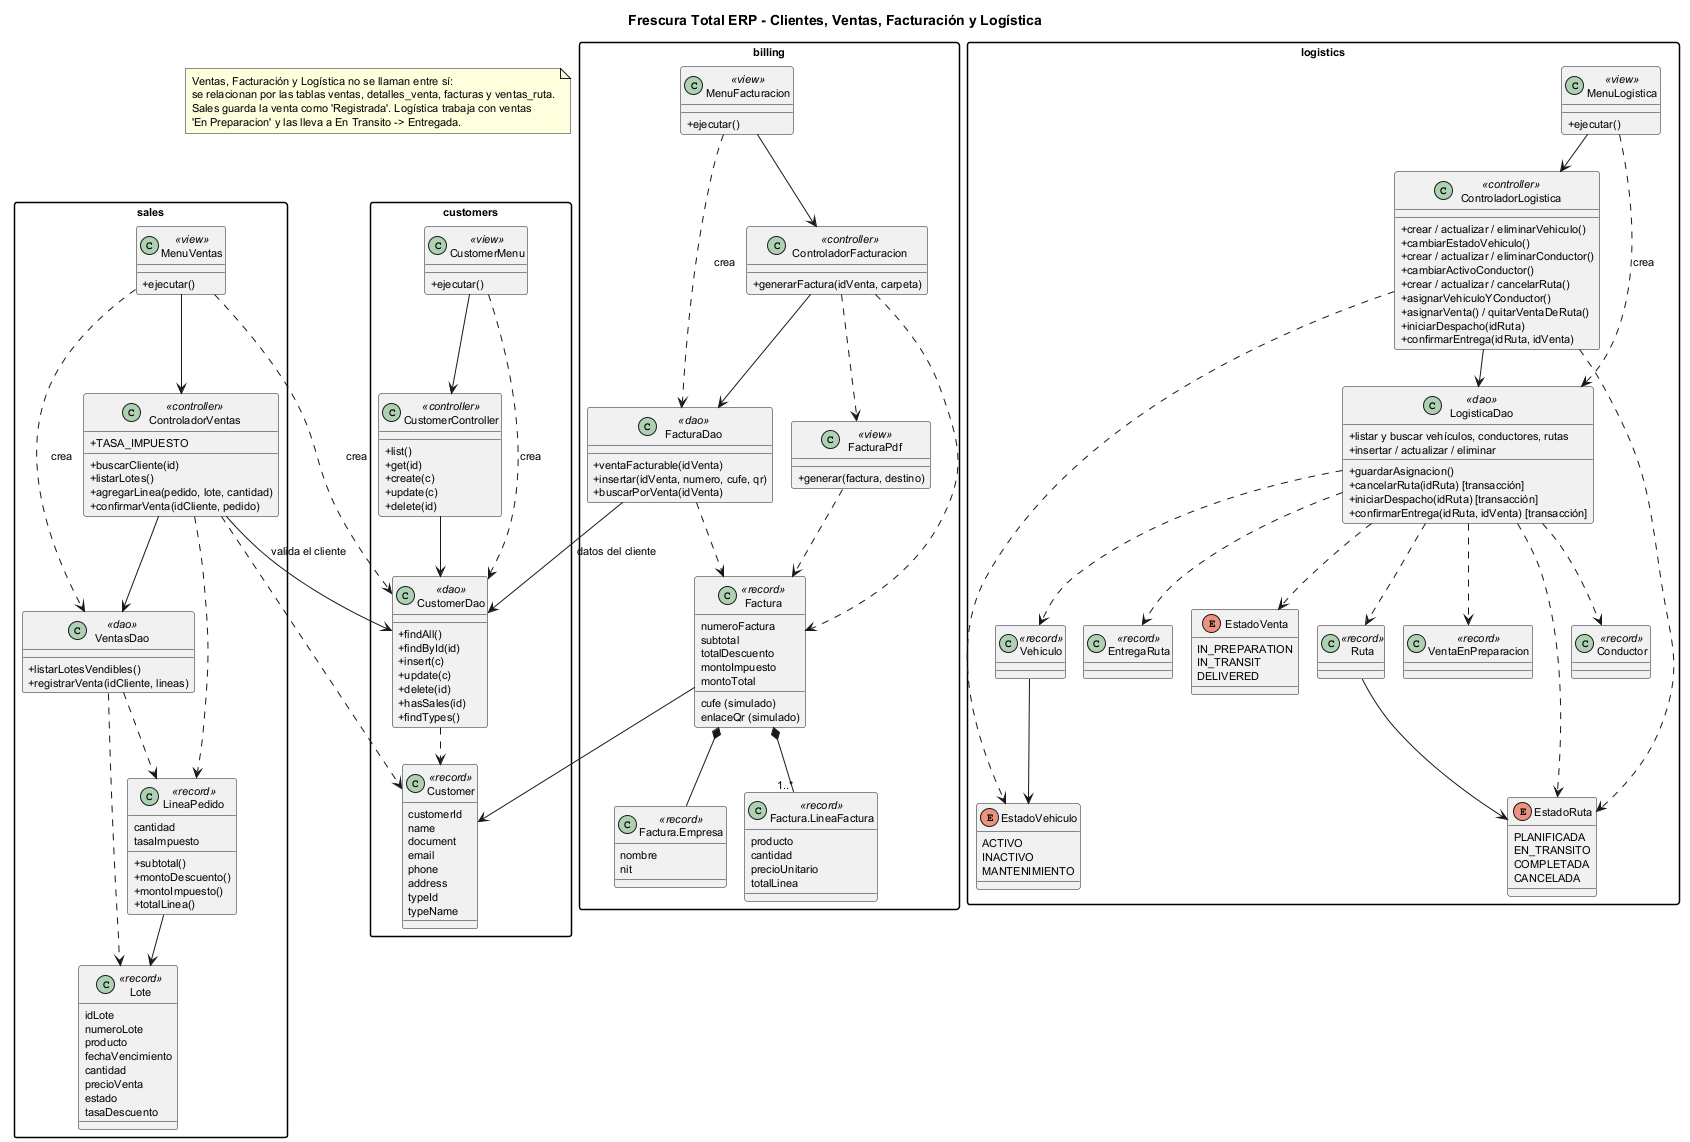
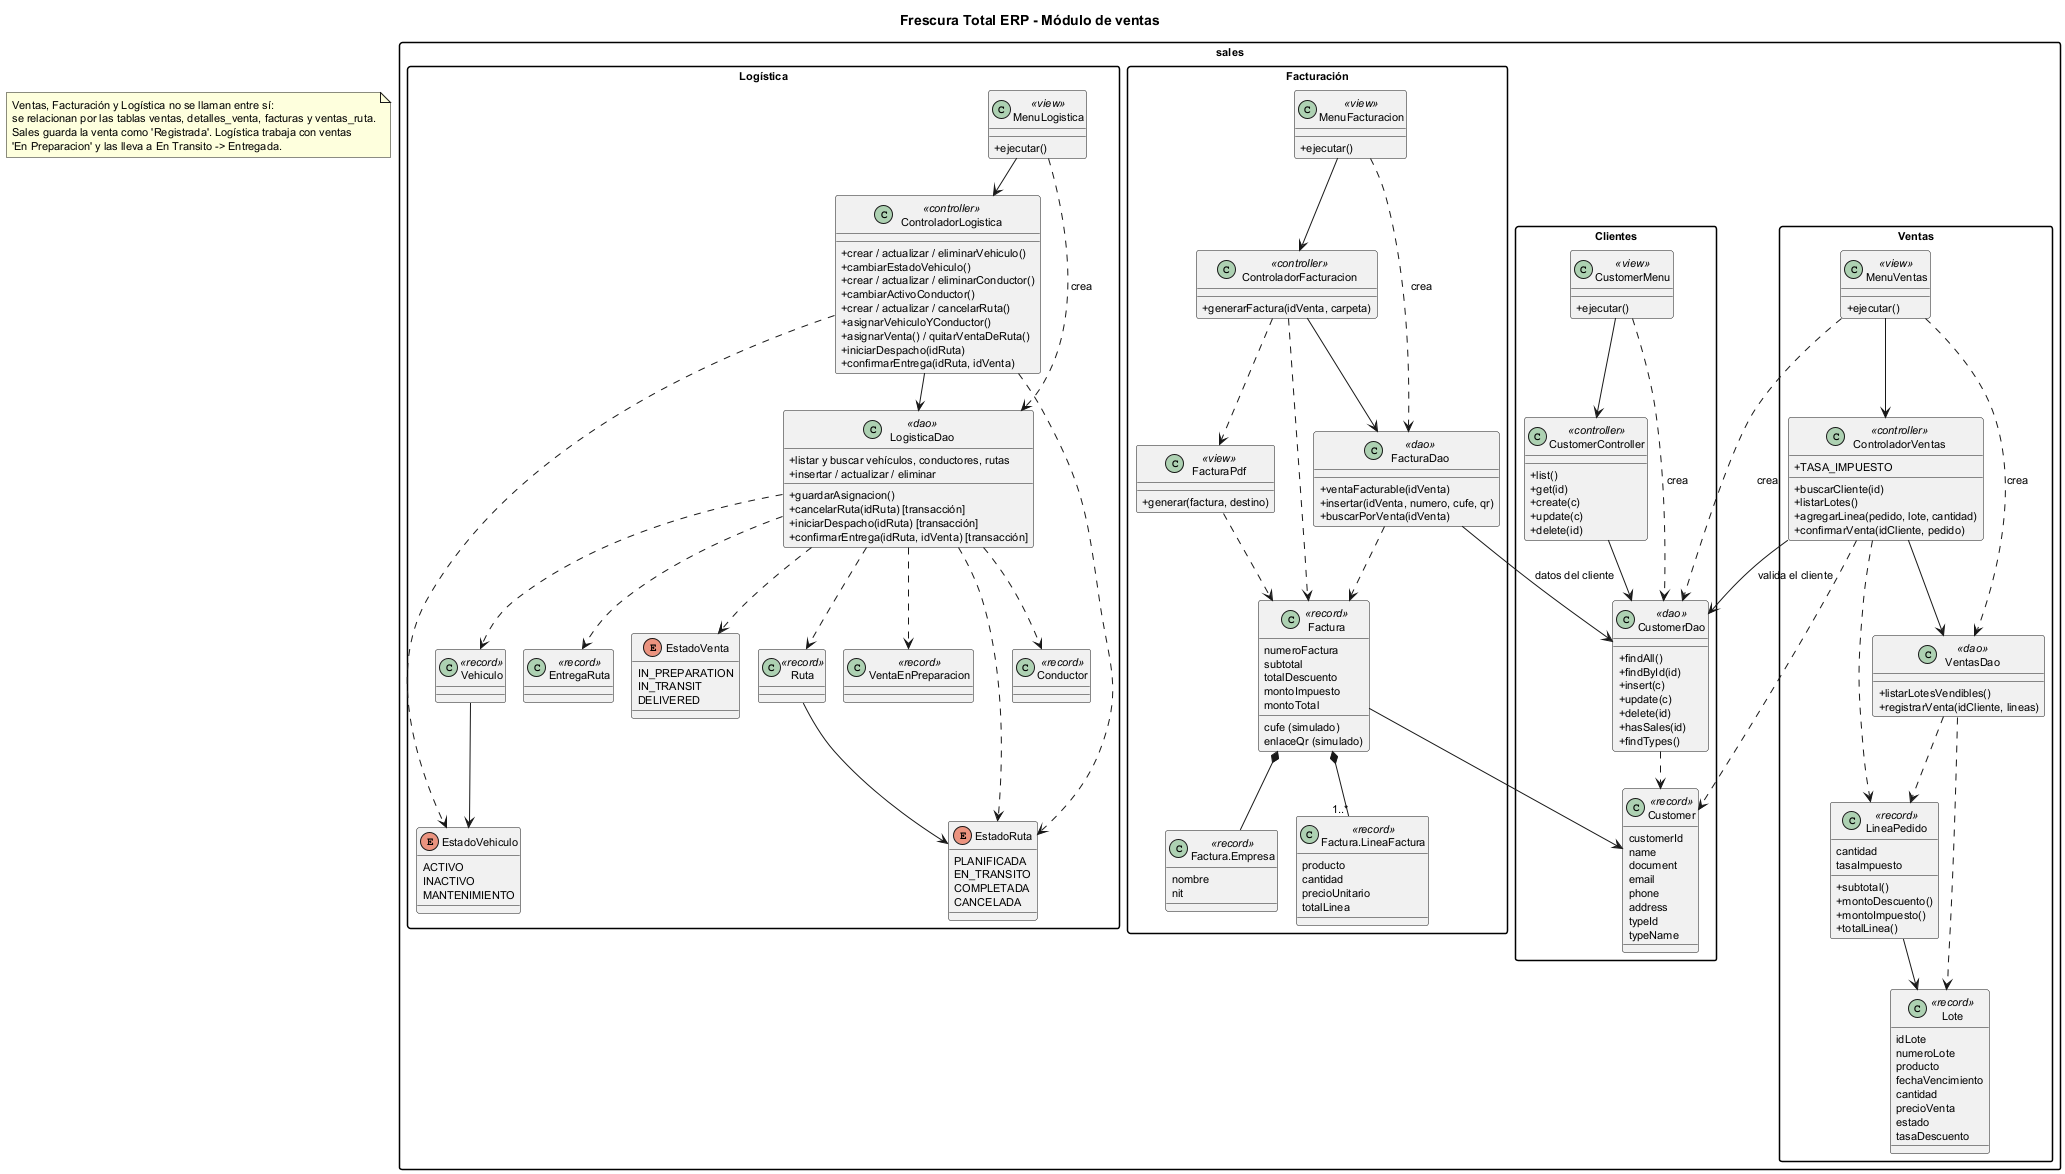
refactor: consolidar módulos bajo ventas

diff --git a/src/main/java/com/frescuratotal/erp/sales/controller/ControladorLogistica.java b/src/main/java/com/frescuratotal/erp/sales/controller/ControladorLogistica.java
@@ -1,13 +1,13 @@
-package com.frescuratotal.erp.logistics.controller;
+package com.frescuratotal.erp.sales.controller;
 
-import com.frescuratotal.erp.logistics.dao.LogisticaDao;
-import com.frescuratotal.erp.logistics.model.Conductor;
-import com.frescuratotal.erp.logistics.model.EntregaRuta;
-import com.frescuratotal.erp.logistics.model.EstadoRuta;
-import com.frescuratotal.erp.logistics.model.EstadoVehiculo;
-import com.frescuratotal.erp.logistics.model.Ruta;
-import com.frescuratotal.erp.logistics.model.Vehiculo;
-import com.frescuratotal.erp.logistics.model.VentaEnPreparacion;
+import com.frescuratotal.erp.sales.dao.LogisticaDao;
+import com.frescuratotal.erp.sales.model.Conductor;
+import com.frescuratotal.erp.sales.model.EntregaRuta;
+import com.frescuratotal.erp.sales.model.EstadoRuta;
+import com.frescuratotal.erp.sales.model.EstadoVehiculo;
+import com.frescuratotal.erp.sales.model.Ruta;
+import com.frescuratotal.erp.sales.model.Vehiculo;
+import com.frescuratotal.erp.sales.model.VentaEnPreparacion;
 import java.math.BigDecimal;
 import java.sql.SQLException;
 import java.sql.Timestamp;

diff --git a/src/main/java/com/frescuratotal/erp/sales/dao/LogisticaDao.java b/src/main/java/com/frescuratotal/erp/sales/dao/LogisticaDao.java
@@ -1,13 +1,13 @@
-package com.frescuratotal.erp.logistics.dao;
+package com.frescuratotal.erp.sales.dao;
 
-import com.frescuratotal.erp.logistics.model.Conductor;
-import com.frescuratotal.erp.logistics.model.EntregaRuta;
-import com.frescuratotal.erp.logistics.model.EstadoRuta;
-import com.frescuratotal.erp.logistics.model.EstadoVehiculo;
-import com.frescuratotal.erp.logistics.model.EstadoVenta;
-import com.frescuratotal.erp.logistics.model.Ruta;
-import com.frescuratotal.erp.logistics.model.Vehiculo;
-import com.frescuratotal.erp.logistics.model.VentaEnPreparacion;
+import com.frescuratotal.erp.sales.model.Conductor;
+import com.frescuratotal.erp.sales.model.EntregaRuta;
+import com.frescuratotal.erp.sales.model.EstadoRuta;
+import com.frescuratotal.erp.sales.model.EstadoVehiculo;
+import com.frescuratotal.erp.sales.model.EstadoVenta;
+import com.frescuratotal.erp.sales.model.Ruta;
+import com.frescuratotal.erp.sales.model.Vehiculo;
+import com.frescuratotal.erp.sales.model.VentaEnPreparacion;
 import java.math.BigDecimal;
 import java.sql.Connection;
 import java.sql.PreparedStatement;

diff --git a/src/main/java/com/frescuratotal/erp/sales/view/MenuLogistica.java b/src/main/java/com/frescuratotal/erp/sales/view/MenuLogistica.java
@@ -1,11 +1,11 @@
-package com.frescuratotal.erp.logistics.view;
+package com.frescuratotal.erp.sales.view;
 
-import com.frescuratotal.erp.logistics.controller.ControladorLogistica;
-import com.frescuratotal.erp.logistics.dao.LogisticaDao;
-import com.frescuratotal.erp.logistics.model.Conductor;
-import com.frescuratotal.erp.logistics.model.EstadoVehiculo;
-import com.frescuratotal.erp.logistics.model.Ruta;
-import com.frescuratotal.erp.logistics.model.Vehiculo;
+import com.frescuratotal.erp.sales.controller.ControladorLogistica;
+import com.frescuratotal.erp.sales.dao.LogisticaDao;
+import com.frescuratotal.erp.sales.model.Conductor;
+import com.frescuratotal.erp.sales.model.EstadoVehiculo;
+import com.frescuratotal.erp.sales.model.Ruta;
+import com.frescuratotal.erp.sales.model.Vehiculo;
 import java.math.BigDecimal;
 import java.sql.Connection;
 import java.sql.SQLException;

diff --git a/src/main/java/com/frescuratotal/erp/sales/dao/FacturaDao.java b/src/main/java/com/frescuratotal/erp/sales/dao/FacturaDao.java
@@ -1,9 +1,9 @@
-package com.frescuratotal.erp.billing.dao;
+package com.frescuratotal.erp.sales.dao;
 
-import com.frescuratotal.erp.billing.model.Factura;
-import com.frescuratotal.erp.billing.model.Factura.Empresa;
-import com.frescuratotal.erp.billing.model.Factura.LineaFactura;
-import com.frescuratotal.erp.customers.dao.CustomerDao;
+import com.frescuratotal.erp.sales.model.Factura;
+import com.frescuratotal.erp.sales.model.Factura.Empresa;
+import com.frescuratotal.erp.sales.model.Factura.LineaFactura;
+import com.frescuratotal.erp.sales.dao.CustomerDao;
 import java.sql.Connection;
 import java.sql.PreparedStatement;
 import java.sql.ResultSet;

diff --git a/src/main/java/com/frescuratotal/erp/sales/view/CustomerMenu.java b/src/main/java/com/frescuratotal/erp/sales/view/CustomerMenu.java
@@ -1,8 +1,8 @@
-package com.frescuratotal.erp.customers.view;
+package com.frescuratotal.erp.sales.view;
 
-import com.frescuratotal.erp.customers.controller.CustomerController;
-import com.frescuratotal.erp.customers.dao.CustomerDao;
-import com.frescuratotal.erp.customers.model.Customer;
+import com.frescuratotal.erp.sales.controller.CustomerController;
+import com.frescuratotal.erp.sales.dao.CustomerDao;
+import com.frescuratotal.erp.sales.model.Customer;
 import java.sql.Connection;
 import java.sql.SQLException;
 import java.util.Map;

diff --git a/src/main/java/com/frescuratotal/erp/sales/controller/ControladorFacturacion.java b/src/main/java/com/frescuratotal/erp/sales/controller/ControladorFacturacion.java
@@ -1,8 +1,8 @@
-package com.frescuratotal.erp.billing.controller;
+package com.frescuratotal.erp.sales.controller;
 
-import com.frescuratotal.erp.billing.dao.FacturaDao;
-import com.frescuratotal.erp.billing.model.Factura;
-import com.frescuratotal.erp.billing.view.FacturaPdf;
+import com.frescuratotal.erp.sales.dao.FacturaDao;
+import com.frescuratotal.erp.sales.model.Factura;
+import com.frescuratotal.erp.sales.view.FacturaPdf;
 import java.io.IOException;
 import java.nio.file.Files;
 import java.nio.file.Path;

diff --git a/src/main/java/com/frescuratotal/erp/sales/view/FacturaPdf.java b/src/main/java/com/frescuratotal/erp/sales/view/FacturaPdf.java
@@ -1,7 +1,7 @@
-package com.frescuratotal.erp.billing.view;
+package com.frescuratotal.erp.sales.view;
 
-import com.frescuratotal.erp.billing.model.Factura;
-import com.frescuratotal.erp.billing.model.Factura.LineaFactura;
+import com.frescuratotal.erp.sales.model.Factura;
+import com.frescuratotal.erp.sales.model.Factura.LineaFactura;
 import com.google.zxing.BarcodeFormat;
 import com.google.zxing.WriterException;
 import com.google.zxing.common.BitMatrix;

diff --git a/src/main/java/com/frescuratotal/erp/sales/view/MenuVentas.java b/src/main/java/com/frescuratotal/erp/sales/view/MenuVentas.java
@@ -1,7 +1,7 @@
 package com.frescuratotal.erp.sales.view;
 
-import com.frescuratotal.erp.customers.dao.CustomerDao;
-import com.frescuratotal.erp.customers.model.Customer;
+import com.frescuratotal.erp.sales.dao.CustomerDao;
+import com.frescuratotal.erp.sales.model.Customer;
 import com.frescuratotal.erp.sales.controller.ControladorVentas;
 import com.frescuratotal.erp.sales.dao.VentasDao;
 import com.frescuratotal.erp.sales.model.LineaPedido;

diff --git a/src/main/java/com/frescuratotal/erp/sales/view/MenuFacturacion.java b/src/main/java/com/frescuratotal/erp/sales/view/MenuFacturacion.java
@@ -1,7 +1,7 @@
-package com.frescuratotal.erp.billing.view;
+package com.frescuratotal.erp.sales.view;
 
-import com.frescuratotal.erp.billing.controller.ControladorFacturacion;
-import com.frescuratotal.erp.billing.dao.FacturaDao;
+import com.frescuratotal.erp.sales.controller.ControladorFacturacion;
+import com.frescuratotal.erp.sales.dao.FacturaDao;
 import java.io.IOException;
 import java.nio.file.Path;
 import java.sql.Connection;

diff --git a/src/main/java/com/frescuratotal/erp/sales/controller/ControladorVentas.java b/src/main/java/com/frescuratotal/erp/sales/controller/ControladorVentas.java
@@ -1,7 +1,7 @@
 package com.frescuratotal.erp.sales.controller;
 
-import com.frescuratotal.erp.customers.dao.CustomerDao;
-import com.frescuratotal.erp.customers.model.Customer;
+import com.frescuratotal.erp.sales.dao.CustomerDao;
+import com.frescuratotal.erp.sales.model.Customer;
 import com.frescuratotal.erp.sales.dao.VentasDao;
 import com.frescuratotal.erp.sales.model.LineaPedido;
 import com.frescuratotal.erp.sales.model.Lote;

diff --git a/src/main/java/com/frescuratotal/erp/sales/controller/CustomerController.java b/src/main/java/com/frescuratotal/erp/sales/controller/CustomerController.java
@@ -1,7 +1,7 @@
-package com.frescuratotal.erp.customers.controller;
+package com.frescuratotal.erp.sales.controller;
 
-import com.frescuratotal.erp.customers.dao.CustomerDao;
-import com.frescuratotal.erp.customers.model.Customer;
+import com.frescuratotal.erp.sales.dao.CustomerDao;
+import com.frescuratotal.erp.sales.model.Customer;
 import java.sql.SQLException;
 import java.util.List;
 import java.util.Map;

diff --git a/src/main/java/com/frescuratotal/erp/sales/dao/CustomerDao.java b/src/main/java/com/frescuratotal/erp/sales/dao/CustomerDao.java
@@ -1,6 +1,6 @@
-package com.frescuratotal.erp.customers.dao;
+package com.frescuratotal.erp.sales.dao;
 
-import com.frescuratotal.erp.customers.model.Customer;
+import com.frescuratotal.erp.sales.model.Customer;
 import java.sql.Connection;
 import java.sql.PreparedStatement;
 import java.sql.ResultSet;
